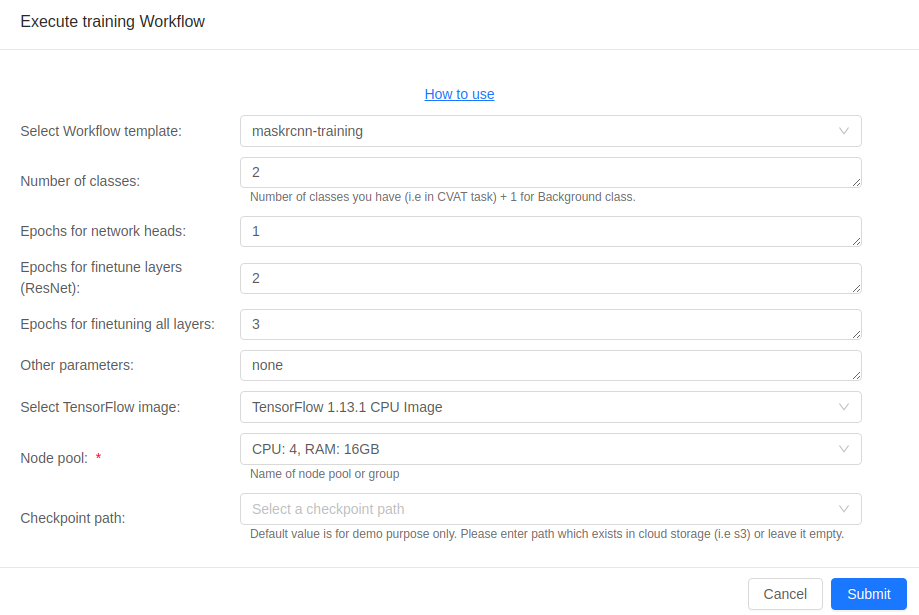
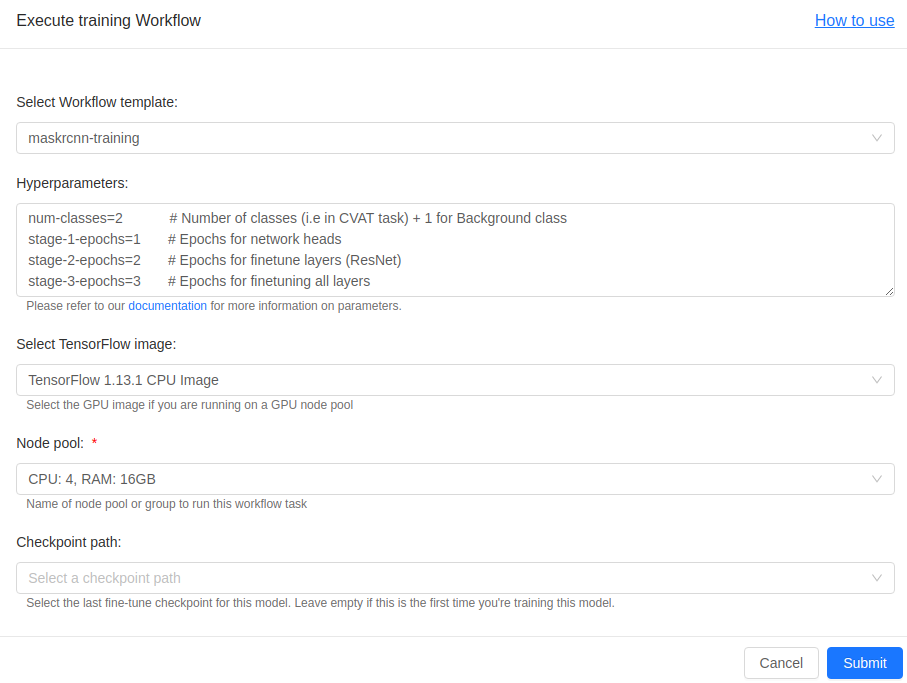
updated docs for default models

diff --git a/docs/getting-started/use-cases/computervision/annotation/cvat/cvat_annotation_model.md b/docs/getting-started/use-cases/computervision/annotation/cvat/cvat_annotation_model.md
@@ -12,58 +12,52 @@ Once you have annotated enough data, you can train a model to pre-annotate the r
 
 ## Training object detection model through CVAT
 
-![Create Annotation Model](/img/create_annotation_model_base.png)
+![CVAT flowchart](/img/auto-annotation-v.2.0.png)
 
 1. Annotate enough images in your CVAT task.  
 2. Go back to your CVAT dashboard and click on Actions and find `Execute training workflow` in that task. You will see a popup with a few options.  
-3. Select the appropriate model type (TensorFlow OD API or MaskRCNN by default, you can add your own model as well) and then select the model (i.e ssd-mobilenet-v2-coco).  
+3. Select the appropriate model type (TensorFlow OD API or MaskRCNN, you can add your own model as well) and then select the model (i.e ssd-mobilenet-v2-coco).  
 4. Select the machine type. A machine with multiple GPUs will speed up your training process.  
-5. Select the base model to start training from. These are the models that you trained previously in this namespace. This is optional. By default, a model trained on COCO will be used. Please make sure that the base model you select is compatible with the current task. The number of classes should be same, and if you use model trained on other types of data then accuracy might deteriorate.
-6. Enter optional arguments. See below for more details.  
-7. Your trained model, checkpoints, and classes file will be stored on your s3 bucket.
-
-![CVAT flowchart](/img/auto-annotation-v.2.0.png)
+5. Select the checkpoint model to start training from. These are the models that you trained previously in this namespace. This is optional. By default, a model trained on COCO will be used. Please make sure that the base model you select is compatible with the current task. The number of classes should be same, and if you use model trained on other types of data then accuracy might deteriorate.
+6. Enter right hyperparameters. See below for more details on hyperparameters.  
+7. Your trained model, checkpoints, and classes file will be stored on your cloud storage (i.e s3 bucket).
 
 
-## Arguments (optional)
+## TensorFlow Object Detection API
 
-You can optionally specify some arguments in the `Arguments` field seperated by `;`. 
+You can use any of the models that we support for TensorFlow Object Detection API to train your custom pre-annotation models. Here, we provide a brief explanation on how to choose one model over another based on your needs. Some models are faster than others, whereas some are more accurate than others.  We hope this information will help you choose the right model for your task. 
 
-Here is a sample: `epochs=100;batch_size=24`. 
+![TensorFlow Object Detection Workflow](/img/tf-object-detection.png)
 
+### Hyperparameters
+
+You can specify some arguments in the `Hyperparameters` field seperated by new line. 
+
+Here is a sample for Tensorflow Object Detection API: 
+
+```
+epochs=100
+num-classes=81
+``` 
+
+Details:
 - epochs : number of epochs to train your model for. By default, we will train for an appropriate number of epochs depending upon the model.
 - batch_size : batch size for the training
 - initial_learning_rate : initial learning rate for the model. We recommend you do not change this.
 - num_clones (default=1): number of GPUs to train the model 
+- schedule-step-1: step 1 for linear learning rate decay
+- schedule-step-2: step 2 for linear learning rate decay
 
 If you select a Machine type with 4 GPUs (Tesla V100), the following command can be used:
-`epochs=300000;num_clones=4`
+`num_clones=4`
 
 - Note that num_clones is 4 because there are 4 GPUs available.
 
-For MaskRCNN, you might want to set epochs for all three stages as follows. The MaskRCNN template will use all available GPUs for training.
-`--stage1_epochs=1;--stage2_epochs=2;--stage3_epochs=3;`
-
 ## Choosing the right base model
 
-You can use any of the models that we support to train your custom pre-annotation models. Here, we provide a brief explanation on how to choose one model over another based on your needs. Some models are faster than others, whereas some are more accurate than others.  We hope this information will help you choose the right model for your task. 
-
-* Note that we don't support Yolo and MaskRCNN models yet.
-
-* We currently support a few faster-rcnn models. All of these models are similar except that of the backbone used for the feature extraction. The backbones used are, in increasing order of complexity (i.e more layers), ResNet50, ResNet101, InceptionResNetV2. As the model complexity increases the computation requirement will also increase. If you have very complicated data (i.e hundreds of annotations in one image), then it is recommended that you choose complex model (i.e InceptionResNetV2).
+* We currently support several faster-rcnn models. All of these models are similar except that of the backbone used for the feature extraction. The backbones used are, in increasing order of complexity (i.e more layers), ResNet50, ResNet101, InceptionResNetV2. As the model complexity increases the computation requirement will also increase. If you have very complicated data (i.e hundreds of annotations in one image), then it is recommended that you choose complex model (i.e InceptionResNetV2).
 
 * Faster-rcnn models are generally more accurate than ssd models. However, sometimes you are better off using ssd models if your data is easy to learn (i.e 1 or 2 bounding box per image).
-
-### frcnn-inc-resv2-atr-coco: 
-
-This is a type of faster-rcnn model with InceptionResNetV2 backbone. If you are not sure about which model to use then we recommend you use SSD based model (i.e ssd-mobilenet-v2).
-
-Depending upon your data, you can set epochs to train your model. There is no standard value which can work for all datasets. You generally have to try different number of epochs to get the best model. Ideally, you do so by monitoring loss of your model while training. But if you are looking for a recommendation. Then, we recommend you set epochs as follows: (number of images / batch_size (default: 1)) * 500. For instance, if you have 100 images, then your epochs will be 50000(rounded). Please note that the model will be trained using a pre-trained model, so you don't need to train as long as you would have to when not using the pre-trained model.
-
-Please note that current implementation of faster-rcnn inTensorFlow Object Detection API does not support batch training. That is, you shouldn't change batch_size.
-
-***Defaults***: batch_size: 1, learning_rate: 0.0003, epochs=10000
-
 
 ### frcnn-nas-coco:
 
@@ -90,6 +84,17 @@ Please note that current implementation of faster-rcnn inTensorFlow Object Detec
 ***Defaults***: batch_size: 1, learning_rate: 0.0003, epochs=10000
 
 
+### frcnn-res101-lowp
+
+This is a type of faster-rcnn model with ResNet101 backbone with low number of proposals. If you are not sure about which model to use then we recommend you use SSD based model (i.e ssd-mobilenet-v2). If you are looking for more complex and accurate model then check out frcnn-res101-coco or frcnn-inc-resv2-atr-coco.
+
+For how to set epochs, you can take a look at first model since both models are faster-rcnn based.
+
+Please note that current implementation of faster-rcnn inTensorFlow Object Detection API does not support batch training. That is, you shouldn't change batch_size.
+
+***Defaults***: batch_size: 1, learning_rate: 0.0003, epochs=10000
+
+
 ### frcnn-res50-coco
 
  This is a type of faster-rcnn model with ResNet50 backbone. If you are not sure about which model to use then we recommend you use SSD based model (i.e ssd-mobilenet-v2). If you are looking for more complex and accurate model then check out frcnn-res101-coco or frcnn-inc-resv2-atr-coco.
@@ -101,15 +106,6 @@ Please note that current implementation of faster-rcnn inTensorFlow Object Detec
 ***Defaults***: batch_size: 1, learning_rate: 0.0003, epochs=10000
 
 
-### frcnn-res50-lowp
-
-This is a type of faster-rcnn model with ResNet50 backbone with low number of proposals. If you are not sure about which model to use then we recommend you use SSD based model (i.e ssd-mobilenet-v2). If you are looking for more complex and accurate model then check out frcnn-res101-coco or frcnn-inc-resv2-atr-coco.
-
-For how to set epochs, you can take a look at first model since both models are faster-rcnn based.
-
-Please note that current implementation of faster-rcnn inTensorFlow Object Detection API does not support batch training. That is, you shouldn't change batch_size.
-
-***Defaults***: batch_size: 1, learning_rate: 0.0003, epochs=10000
 
 
 ### ssd-mobilenet-v2-coco:
@@ -125,16 +121,30 @@ Depending upon your data, you can set epochs to train your model. There is no st
 ***Defaults***: batch_size: 24, learning_rate: 0.004, epochs=15000
 
 
+
+
 ## Training segmentation model through CVAT
+
+MaskRCNN is a popular model for segmentation tasks. We use [this](https://github.com/matterport/Mask_RCNN) implementation of MaskRCNN for training and inference.
+
 The process to train a Mask-RCNN model on CVAT is similar to the above process except that you need to select Mask-RCNN after clicking on Create Annotation Model.
-***Parameters***: Even though you don't need to enter any parameters to start the training of Mask-RCNN, it is recommended that you pass correct epochs according your data. Mask-RCNN is a very deep model which takes too much time to train and also to get enough accuracy. 
-We allow you to set epochs for three different parts of the model. These parts are called `stage1`, `stage2` and `stage3`. You can set corresponding epochs through `--stage1_epochs`, `--stage2_epochs`, and `--stage3_epochs`.
+
+![MaskRCNN Workflow](/img/create_annotation_model_base.png)
+
+***Parameters***: The only required parameter is number of classes. Please make sure you pass-in correct number of classes. For MaskRCNN, the number of classes will be number of classes in CVAT plus one for background. Even though you don't need to enter any other parameters to start the training of Mask-RCNN, it is recommended that you pass correct epochs according your data. Mask-RCNN is a very deep model which takes too much time to train and also to get enough accuracy. 
+We allow you to set epochs for three different parts of the model. These parts are called `stage1`, `stage2` and `stage3`. You can set corresponding epochs as follows:
+
+```
+stage-1-epochs=1
+stage-2-epochs=2
+stage-3-epochs=3
+```
 
 If you have few images (few hundreds), then we recommend you set total epochs (stage1+stage2+stage3) less than 10. We advise you set more epochs for stage1 than others. As your data size increases or the complexity of your data increases you might want to increase epochs. 
 
 If you have ~1000 images then you don't have to set any parameters, CVAT will take care of it.
 
-## Adding your own base model to CVAT
+## Adding your own model to CVAT
 
 You can also add your own base models to CVAT via Onepanel.  Please email us at info@onepanel.io to learn how.
 
